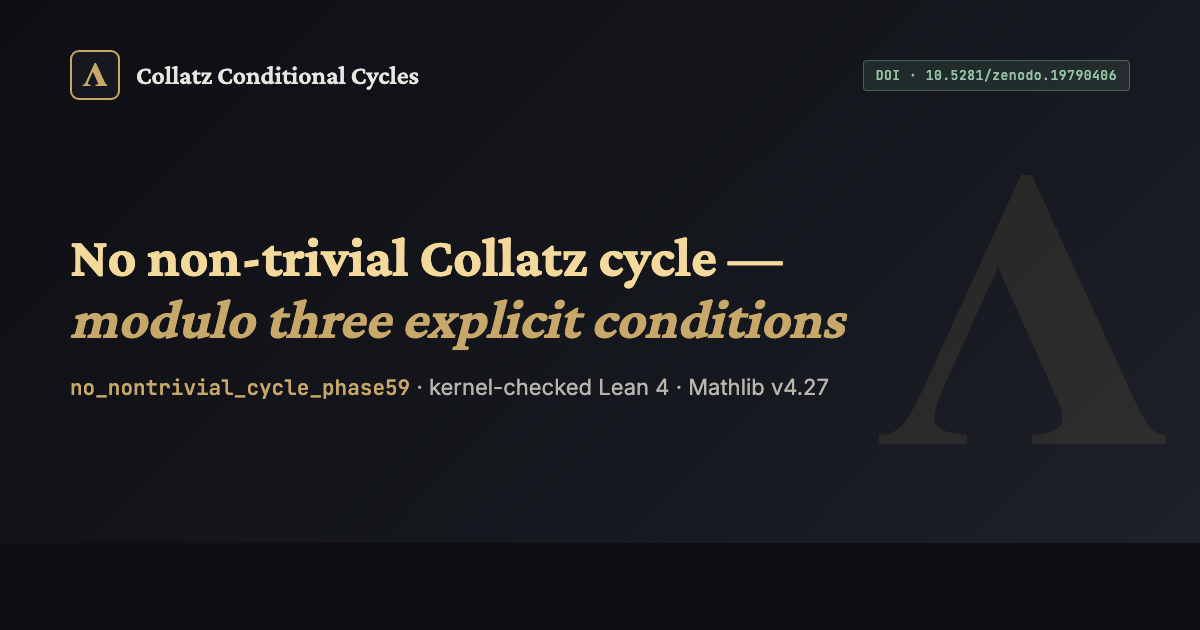
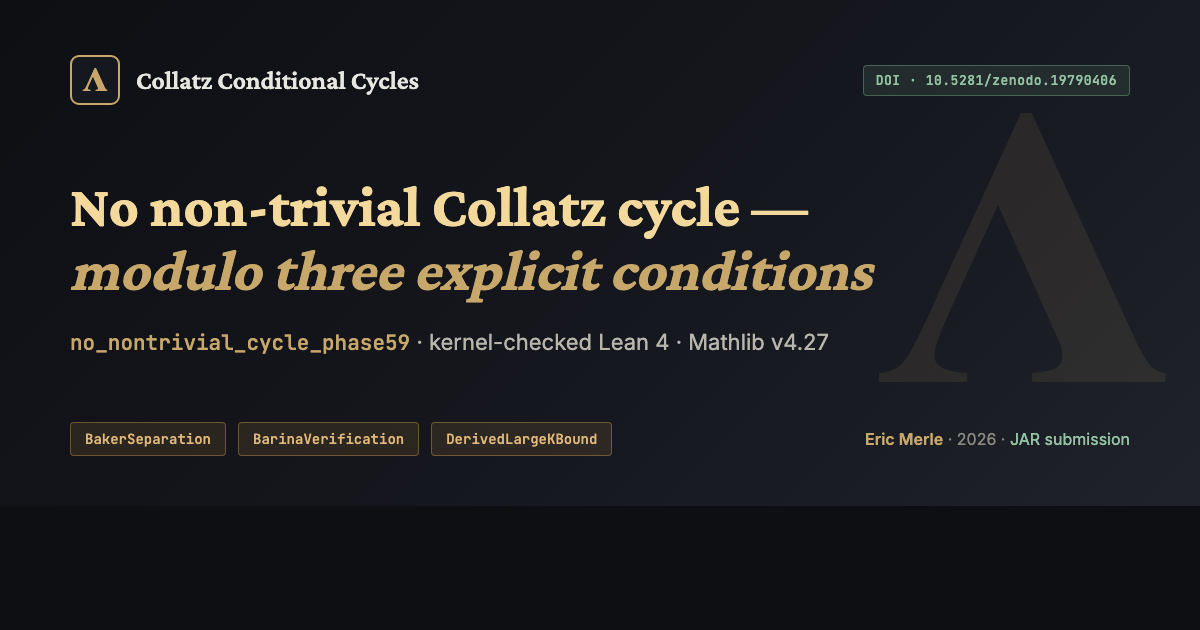
OG image finale : contenu complet visible (1200x630, 244KB)

diff --git a/assets/og-image-source.html b/assets/og-image-source.html
@@ -6,22 +6,16 @@
 <link href="https://fonts.googleapis.com/css2?family=Crimson+Pro:wght@400;600;700&family=Inter:wght@400;500;600;700&family=JetBrains+Mono:wght@500&display=swap" rel="stylesheet">
 <style>
 * { margin: 0; padding: 0; box-sizing: border-box; }
-html {
-  width: 1200px;
-  height: 630px;
-  background: #0e0f13;
-}
+html { background: #0e0f13; }
 body {
   width: 1200px;
-  height: 630px;
-  min-height: 630px;
-  margin: 0;
-  padding: 0;
-  overflow: hidden;
   background: linear-gradient(135deg, #0e0f13 0%, #16181f 60%, #1f2229 100%);
   font-family: 'Inter', sans-serif;
   color: #e8e6e0;
   position: relative;
+  /* Padding contrôle la hauteur de tous les blocs ; total ~630 */
+  padding: 55px 70px 50px;
+  overflow: hidden;
 }
 .lambda-watermark {
   position: absolute;
@@ -34,16 +28,16 @@ body {
   color: #c8a86a;
   opacity: 0.10;
   line-height: 1;
+  pointer-events: none;
+  z-index: 1;
 }
 .header {
-  position: absolute;
-  top: 50px;
-  left: 70px;
-  right: 70px;
   display: flex;
   align-items: center;
   justify-content: space-between;
+  position: relative;
   z-index: 2;
+  margin-bottom: 70px;
 }
 .brand {
   display: flex;
@@ -76,21 +70,18 @@ body {
   letter-spacing: 0.04em;
 }
 .center {
-  position: absolute;
-  top: 50%;
-  left: 70px;
-  right: 70px;
-  transform: translateY(-50%);
+  position: relative;
   z-index: 2;
+  margin-bottom: 65px;
 }
 .main-title {
   font-family: 'Crimson Pro', serif;
-  font-size: 56px;
+  font-size: 58px;
   font-weight: 700;
   line-height: 1.1;
   max-width: 880px;
   color: #f3d99c;
-  margin-bottom: 22px;
+  margin-bottom: 24px;
 }
 .main-title em {
   font-style: italic;
@@ -109,13 +100,10 @@ body {
   font-size: 21px;
 }
 .bottom {
-  position: absolute;
-  bottom: 50px;
-  left: 70px;
-  right: 70px;
   display: flex;
   justify-content: space-between;
   align-items: center;
+  position: relative;
   z-index: 2;
 }
 .axioms {
